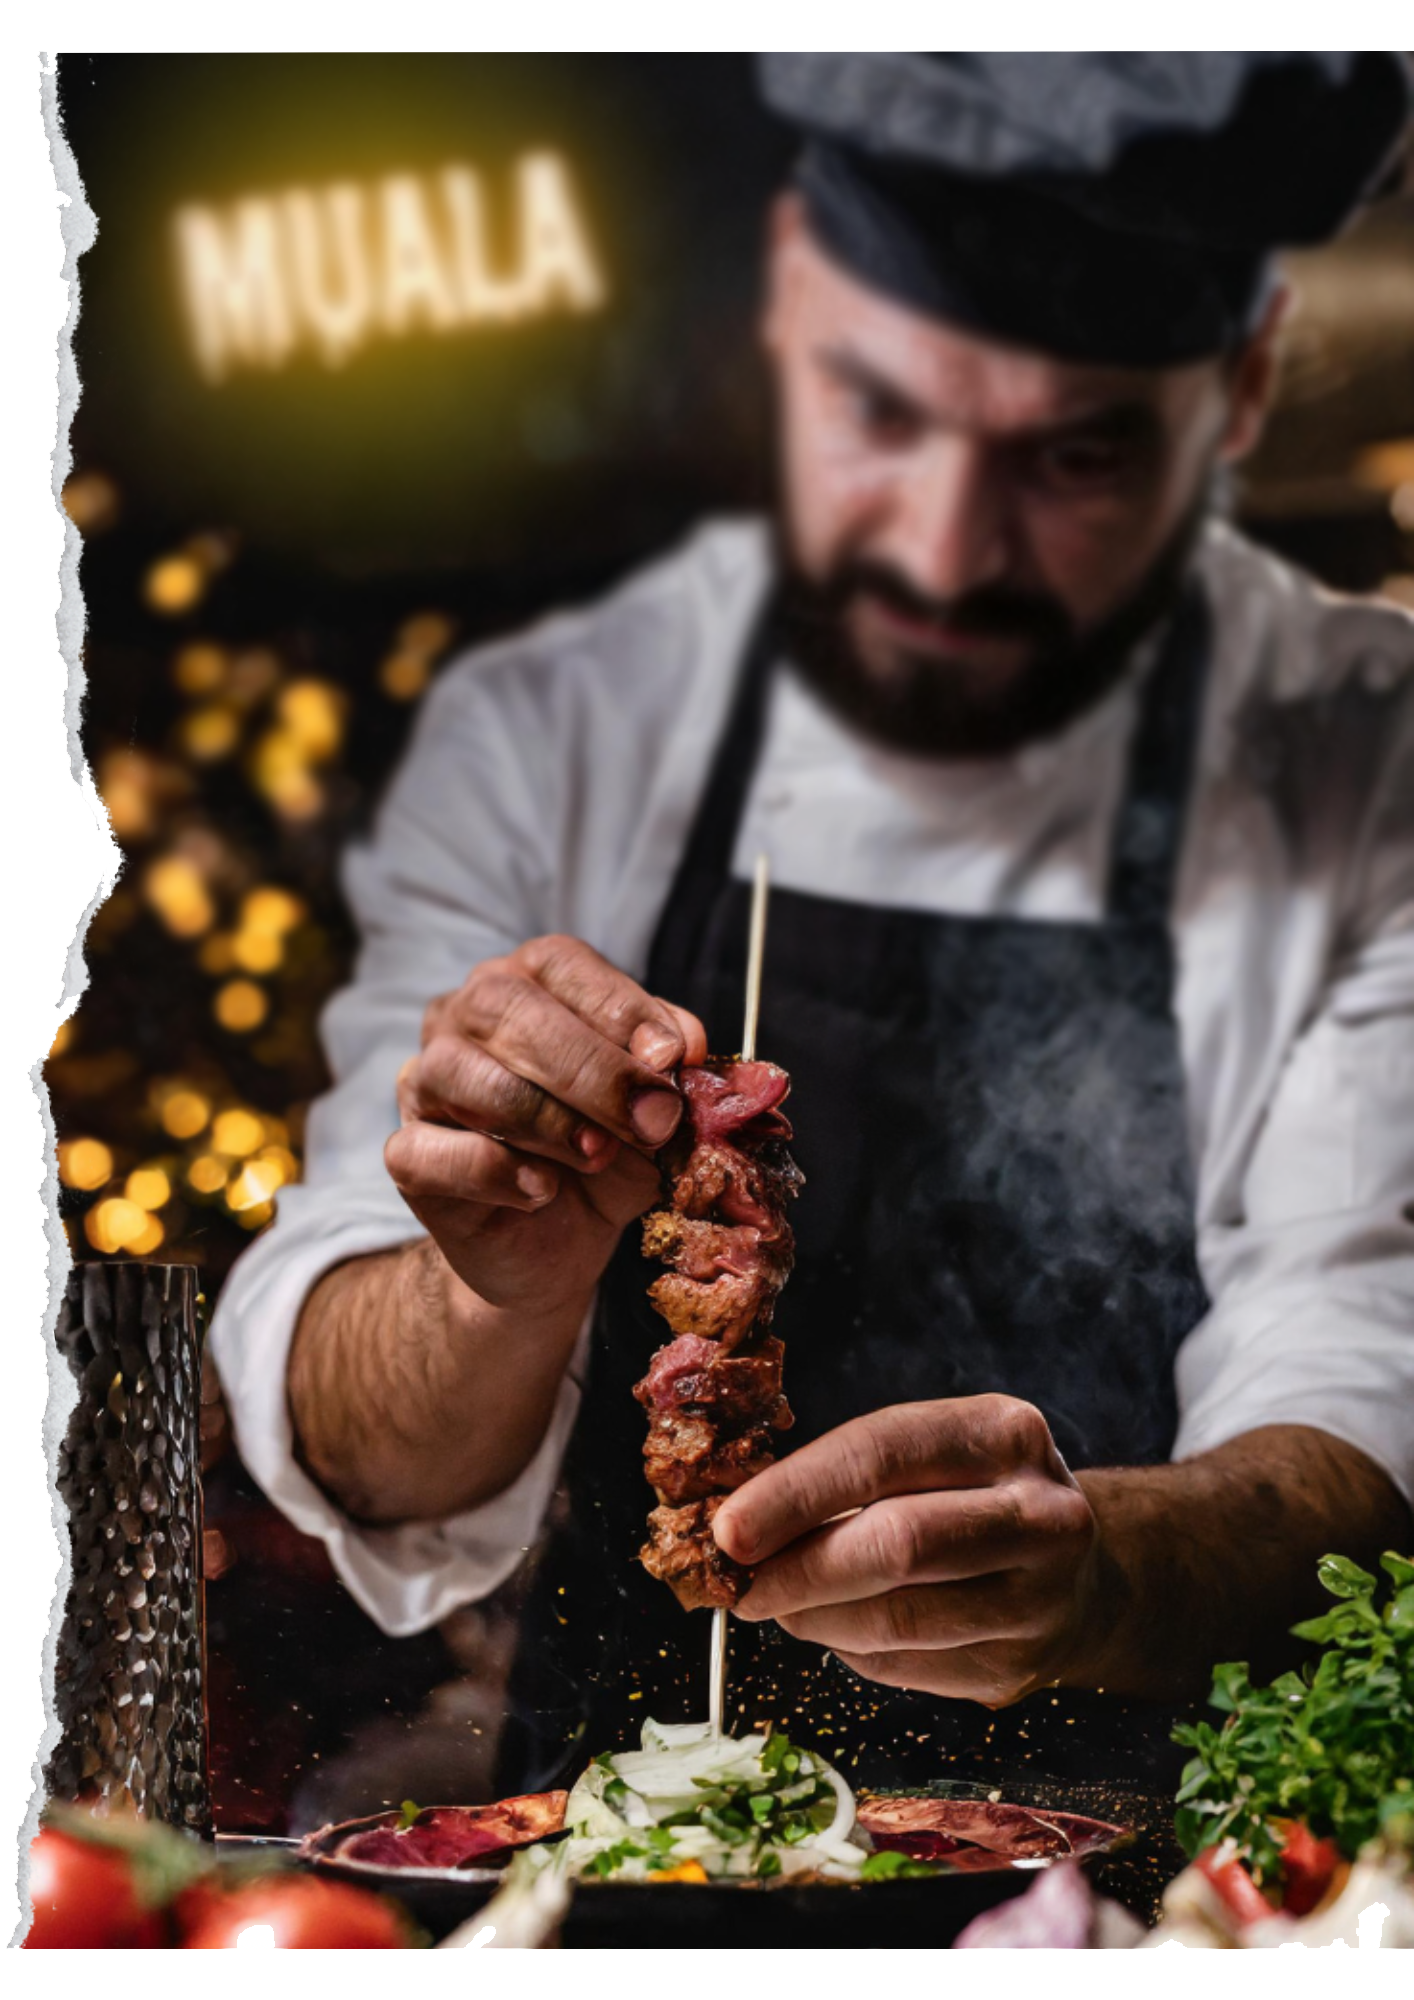
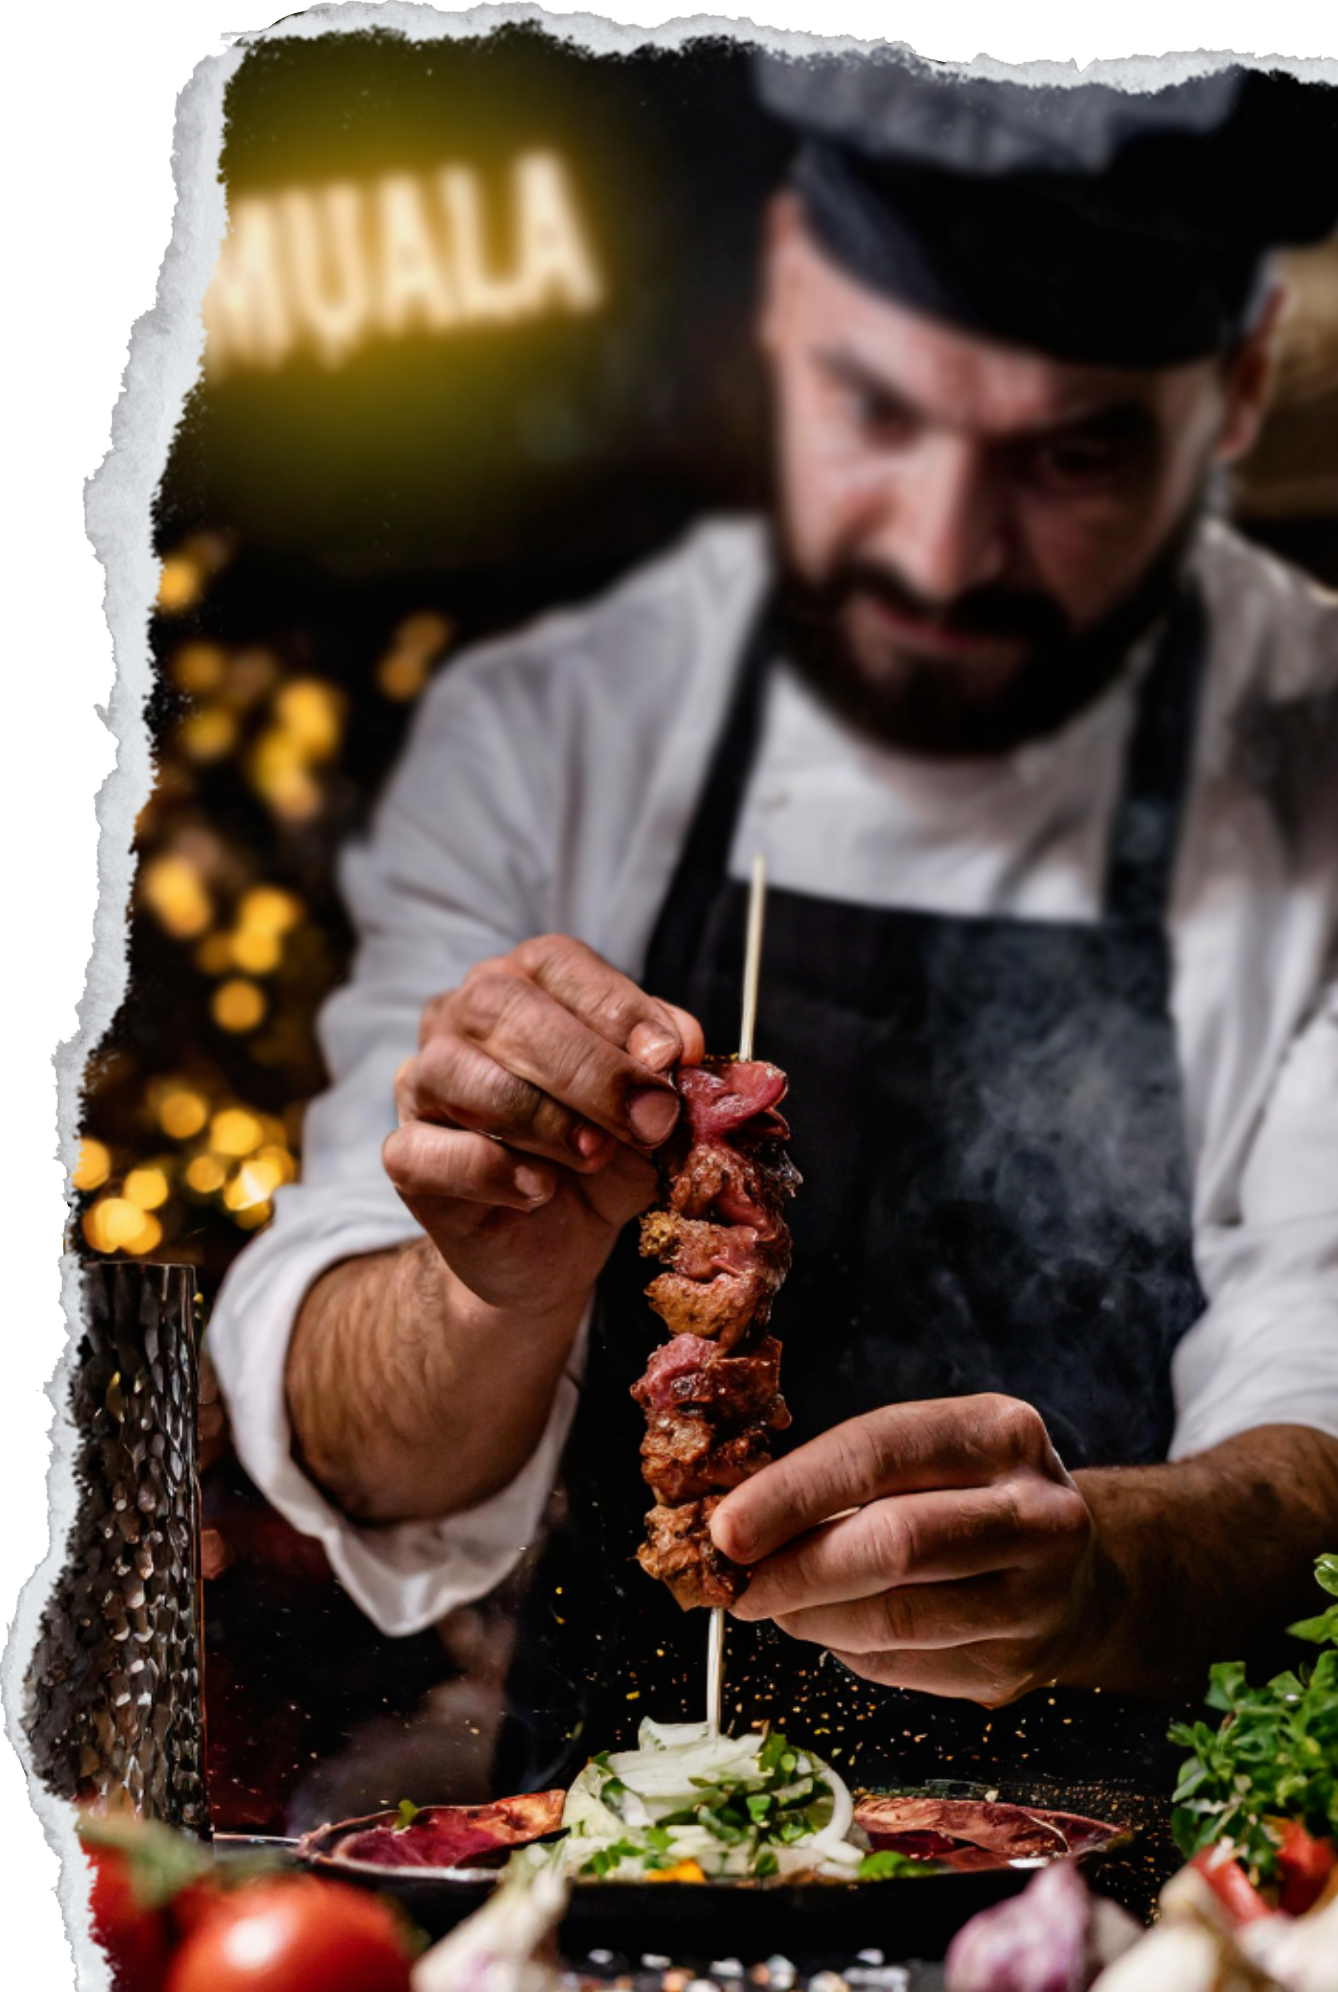
feat: first try to fix main view

diff --git a/src/app/page.tsx b/src/app/page.tsx
@@ -2,7 +2,6 @@
 import MainForm from "@/components/main-form";
 import { useState } from "react";
 
-
 export default function Home() {
   const [sliderValue, setSliderValue] = useState(20);
   return (
@@ -11,28 +10,35 @@ export default function Home() {
         <img
           alt="Map background"
           src="/main_view.png"
-          className="hidden lg:block absolute right-0 object-fill w-4/12 h-full top-10 flex-grow-1"
+          className="hidden lg:block absolute right-0 top-0 overflow-hidden w-5/12 object-fit max-h-full min-h-full"
         />
         <div className="relative z-10 lg:right-36 bottom-20 mx-8">
           <div className="flex flex-col">
-            <div className="flex flex-row text-center">
-              <h1 className="mb-2 text-6xl lg:text-7xl text-dark_gray font-yeseva_one">
+            <div className="flex flex-row text-center items-center justify-center">
+              <h1 className="mb-2 text-4xl lg:text-7xl text-dark_gray font-yeseva_one text-center items-center justify-center">
                 Wyszukaj
               </h1>
-              <img src="/muala.png" className="w-42 h-24 lg:h-32 pl-2" />
+              <img
+                src="/muala.png"
+                className="w-32 h-16 lg:h-32 pl-2 text-center items-center justify-center"
+              />
             </div>
-            <h1 className="mb-8 text-6xl lg:text-7xl text-dark_gray font-yeseva_one">
+            <h1 className="mb-8 text-4xl lg:text-7xl text-dark_gray font-yeseva_one text-center items-center justify-center">
               w swoim mieście
             </h1>
             <h1 className=" mb-2 text-xl text-dark_gray font-piazzolla text-center">
               Mapa zawiera lokalizację wszystkich odwiedzonych lokali przez
               <br />
-              Szymona &quot;Książula&quot; Nyczkę, w których rekomendował poszczególne
+              Szymona &quot;Książula&quot; Nyczkę, w których rekomendował
+              poszczególne
               <br />
               pozycję, określając je mianem &quot;MUALA&quot;
             </h1>
-            <div className="place-content-center justify-center place-self-center">
-              <MainForm sliderValue={sliderValue} setSliderValue={setSliderValue}/>
+            <div className="items-center justify-center">
+              <MainForm
+                sliderValue={sliderValue}
+                setSliderValue={setSliderValue}
+              />
             </div>
           </div>
         </div>

diff --git a/src/components/main-form.tsx b/src/components/main-form.tsx
@@ -27,8 +27,8 @@ export default function MainForm({
         className="flex items-center gap-2 place-content-center justify-center place-self-center pt-6"
         onSubmit={handleSubmit}
       >
-        <div className="max-w-md ">
-          <div className="relative">
+        <div className="max-w-md items-center justify-center ">
+          <div className="relative items-center justify-center">
             <Input
               className="pl-10 pr-20 rounded-full font-barlow"
               placeholder="Wpisz nazwę miasta"
@@ -49,13 +49,15 @@ export default function MainForm({
             <h1 className="pt-10 mb-8 text-2xl text-dark_gray font-piazzolla text-center">
               LUB
             </h1>
-            <Button
-              onClick={() => setSliderValue("")}
-              type="submit"
-              className="absolute bottom-0 transform translate-x-12 translate-y-20 w-64 h-12 rounded-full shadow-lg text-center text-medium_gray bg-[#f5c188] font-piazzolla"
-            >
-              wyświetl wszystko
-            </Button>
+            <div className="items-center justify-center">
+              <Button
+                onClick={() => setSliderValue("")}
+                type="submit"
+                className="items-center justify-center w-full h-12 rounded-full shadow-lg text-center text-medium_gray bg-[#f5c188] font-piazzolla"
+              >
+                wyświetl wszystko
+              </Button>
+            </div>
           </div>
         </div>
       </form>
